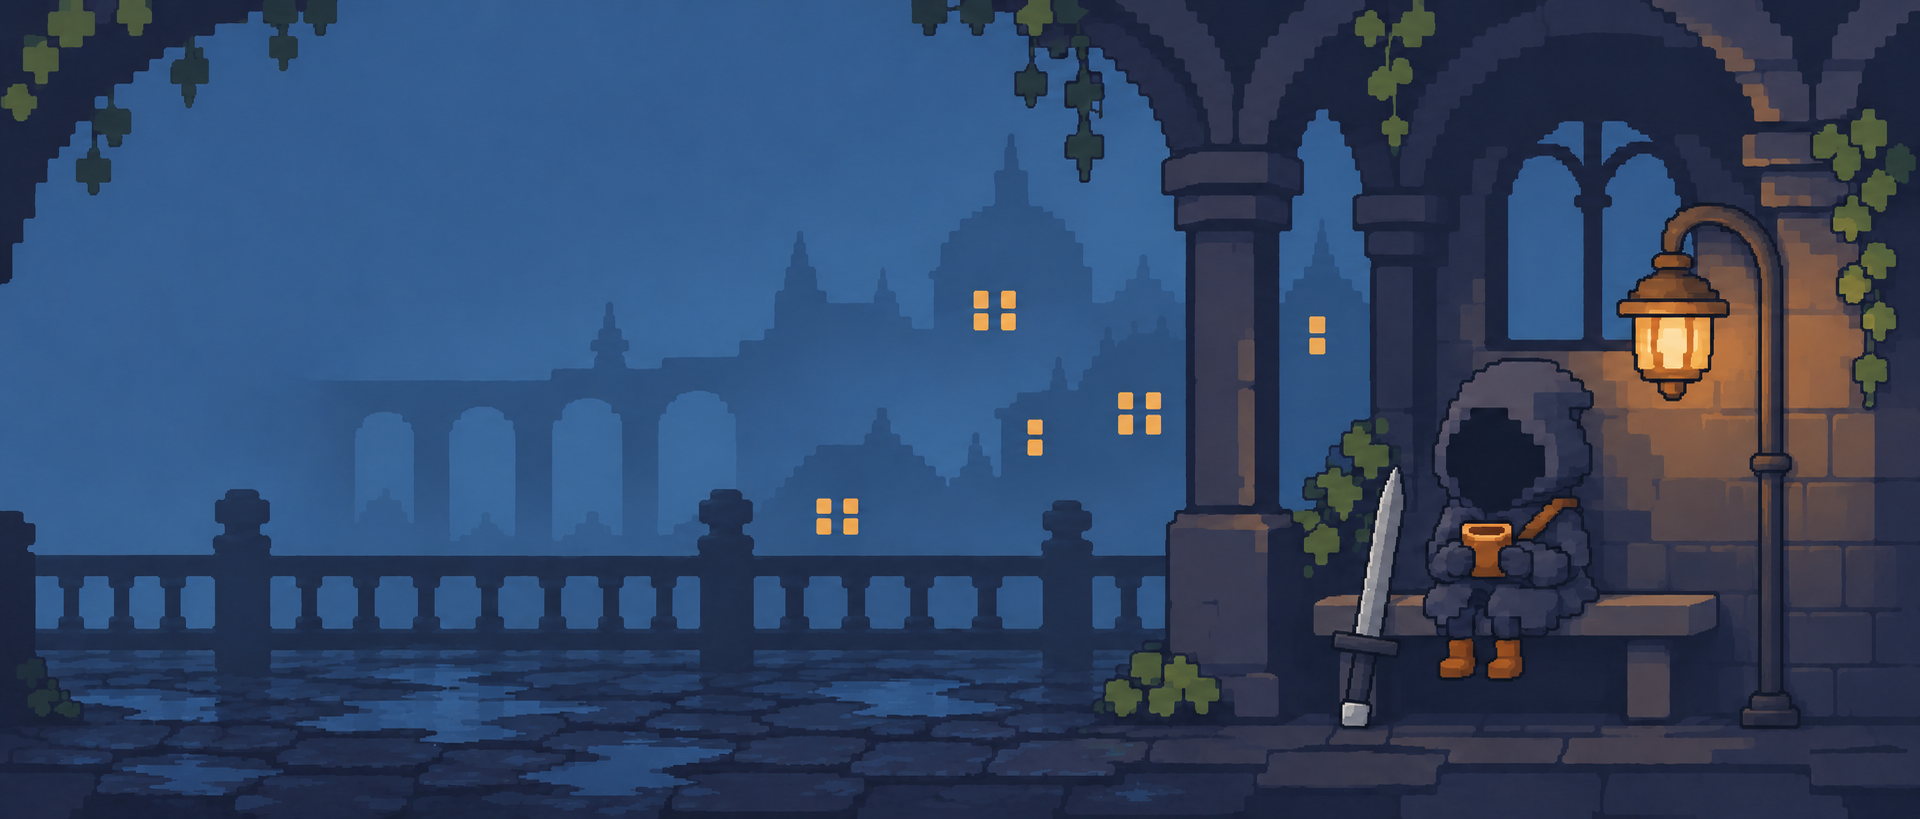
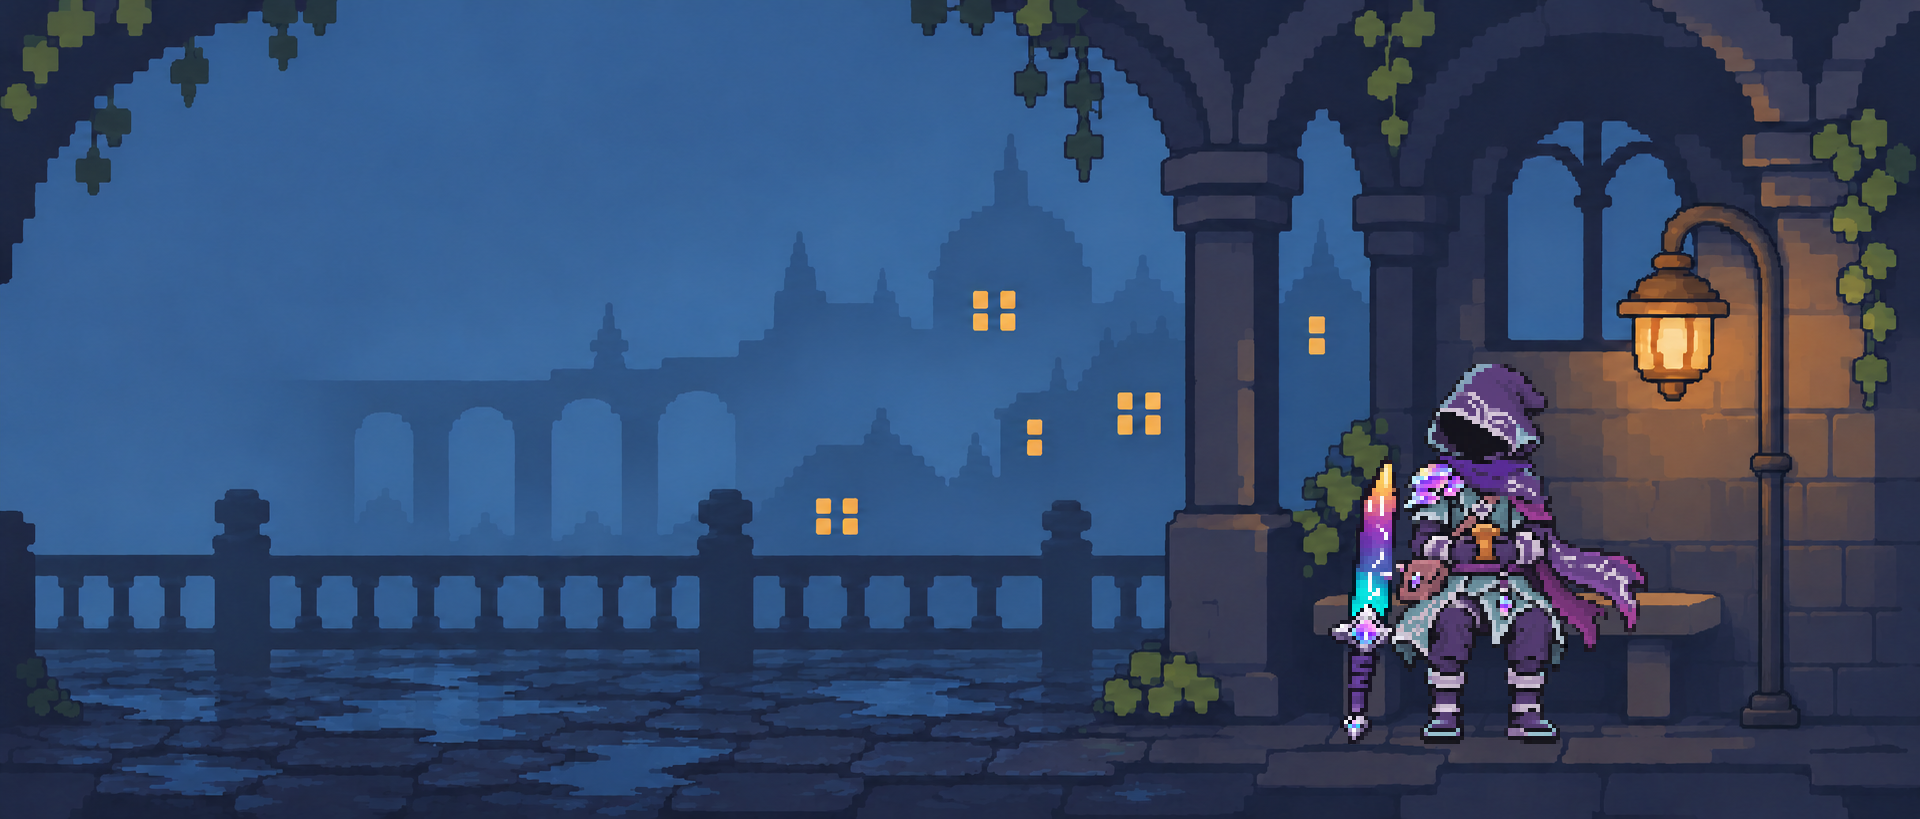
feat: compose Prism Spellblade profile scene and prism links

Changed region(s): [[0.6875, 0.4274, 0.9062, 0.9158], [0.8438, 0.3663, 0.875, 0.3968]]

diff --git a/art/weather.js b/art/weather.js
@@ -31,7 +31,7 @@ window.drawWeather = (() => {
   ctx.restore();
   const pixel=w/320,frame=Math.floor(t*3)%3;
   const steamFrames=[[[0,0],[0,-1],[-1,-2],[-1,-3],[0,-4]],[[0,0],[1,-1],[1,-2],[0,-3],[-1,-4],[-1,-5]],[[0,0],[0,-1],[-1,-2],[0,-3],[1,-4],[1,-5]]];
-  const mugX=.773*w,mugY=.637*h;
+  const mugX=.776*w,mugY=.642*h;
   steamFrames[frame].forEach(([x,y],i)=>{ctx.fillStyle=i<3?'rgba(183,192,190,.58)':'rgba(171,185,187,.32)';ctx.fillRect(Math.round(mugX/pixel+x)*pixel,Math.round(mugY/pixel+y)*pixel,pixel,pixel);});
   const angle=t*Math.PI/2; for(let i=0;i<2;i++){const x=(.878+Math.sin(angle+i*3.2)*.025+Math.sin(angle*2+i)*.007)*w,y=(.43+Math.cos(angle+i*2.7)*.055)*h;ctx.shadowColor='#f2cf87';ctx.shadowBlur=5;ctx.fillStyle='rgba(255,224,153,'+(.65+Math.sin(angle*2+i)*.25)+')';ctx.beginPath();ctx.arc(x,y,1.25,0,Math.PI*2);ctx.fill();ctx.shadowBlur=0;}
  }

diff --git a/docs/maintenance.md b/docs/maintenance.md
@@ -1,10 +1,10 @@
 # Profile maintenance
 
-Run `node scripts/build.mjs` to rebuild the native README and stone navigation plaques. Run `node --test` for the content and asset checks. Introductory and optional personal copy remain comments in the generator until supplied.
+Run `node scripts/build.mjs` to rebuild the native README and prism navigation plaques. Run `node --test` for the content and asset checks. Introductory and optional personal copy remain comments in the generator until supplied.
 
-The banner uses the approved artwork in `art/scene.png` and weather in `art/weather.js`. To export it again, make Playwright available to Node, install its Edge browser, and put FFmpeg on PATH; run `node scripts/render-art.cjs`. The export is 1660 × 722 (two pixels per display pixel), 25 fps with uniform 40 ms frames, a four-second loop and an 8 MB limit. The name has a hard shadow without blur; weather cycles line up at the loop boundary. Daily project refreshes do not render artwork.
+The banner composes the reusable background, seated Spellblade and sword in `art/layers/` using the pixel-grid placement in `art/layers.json`; `art/scene.png` is the composed output. Weather remains in `art/weather.js`. To export it again, make Playwright available to Node, install its Edge browser, and put FFmpeg on PATH; run `node scripts/render-art.cjs`. The export is 1660 × 722 (two pixels per display pixel), 25 fps with uniform 40 ms frames, a four-second loop and an 8 MB limit. The name has a hard shadow without blur; weather cycles line up at the loop boundary. Daily project refreshes do not render artwork.
 
-GitHub cannot run the original canvas or project-selection script. The README uses a GIF, a static PNG selected for reduced motion, stone SVG navigation/project links, native headings and expandable project descriptions. All project plaques are 330px links on the same left edge; separate native Project details controls keep disclosure arrows from indenting the buttons. Two adjacent half-width navigation links fill the top row. Text alternatives identify every plaque. GitHub also provides animated-image autoplay controls in its accessibility settings. The fixed GIF image palette remains a limit of this adaptation.
+GitHub cannot run the original canvas or project-selection script. The README uses a GIF, a static PNG selected for reduced motion, prism SVG navigation/project links, native headings and expandable project descriptions. All project plaques are 330px links on the same left edge; separate native Project details controls keep disclosure arrows from indenting the buttons. Two adjacent half-width navigation links fill the top row. Text alternatives identify every plaque. GitHub also provides animated-image autoplay controls in its accessibility settings. The fixed GIF image palette remains a limit of this adaptation.
 
 The three featured descriptions are maintained in `scripts/build.mjs`; project links point to their GitHub repositories. No third-party metrics service or personal contact destination is required.
 
@@ -17,3 +17,7 @@ Pushing code to an older repository moves it ahead of repositories with older pu
 The Profile workflow runs checks on pull requests and relevant source pushes. On main it refreshes after relevant pushes, on manual dispatch, and daily at 09:17 UTC. Edits in other repositories appear at the next daily or manual refresh. Only the refresh job has content-write permission, and its commit is limited to `README.md` and the three `assets/latest-*.svg` slots. Slots update with their projects; unused slots are cleared. No PAT, external scheduler or keepalive is used. GitHub may delay scheduled runs and disables scheduled workflows after 60 days without repository activity; re-enable the workflow and run it manually if needed.
 
 Sources: [public repository API](https://docs.github.com/en/rest/repos/repos#list-repositories-for-a-user), [scheduled workflow behavior](https://docs.github.com/en/actions/reference/workflows-and-actions/events-that-trigger-workflows#schedule), [workflow inactivity](https://docs.github.com/en/actions/how-tos/manage-workflow-runs/disable-and-enable-workflows), [image motion preferences](https://docs.github.com/en/account-and-profile/how-tos/account-settings/managing-accessibility-settings).
+
+The Spellblade rests with a mug and their sword leaned beside the bench, without summoned magic. Preserve the crystal-free hood, a black featureless opening with eyes hidden under the hood brim in this resting pose, teal coat, violet scarf and prismatic shoulder. Steam is a separate animation anchored to the mug. All navigation, featured and latest plaques share the same cyan/violet/amber facets and branch-node ornaments through plaque() in scripts/build.mjs, including daily refresh output.
+
+The renderer samples the seated sprite at 96 native pixels high and the sword at 72, then enlarges both 4× with smoothing disabled. This keeps visible pixels, the established costume patterns and many-shade prismatic blade, without regenerating the background. Raw source layers remain intact. Both sprites meet the same floor at y=744 in the 1920×819 composition. The resting hood turns slightly screen left and hides both eyes; no summoned magic is shown.

diff --git a/README.md b/README.md
@@ -1,7 +1,7 @@
 <!-- Built by scripts/build.mjs. Edit the generator, then rebuild. -->
 <picture>
   <source media="(prefers-reduced-motion: reduce)" srcset="assets/scene.png">
-  <img src="assets/scene.gif" width="100%" alt="Tristan Morton. A faceless hooded traveler drinks tea on a sheltered bench beside a sword and warm lantern, overlooking a rainy blue city.">
+  <img src="assets/scene.gif" width="100%" alt="Tristan Morton. The faceless Prism Spellblade rests with a steaming mug on a sheltered bench, their prism sword leaning beside them, overlooking a rainy blue city under a warm lantern. No summoned magic.">
 </picture>
 
 <p>
